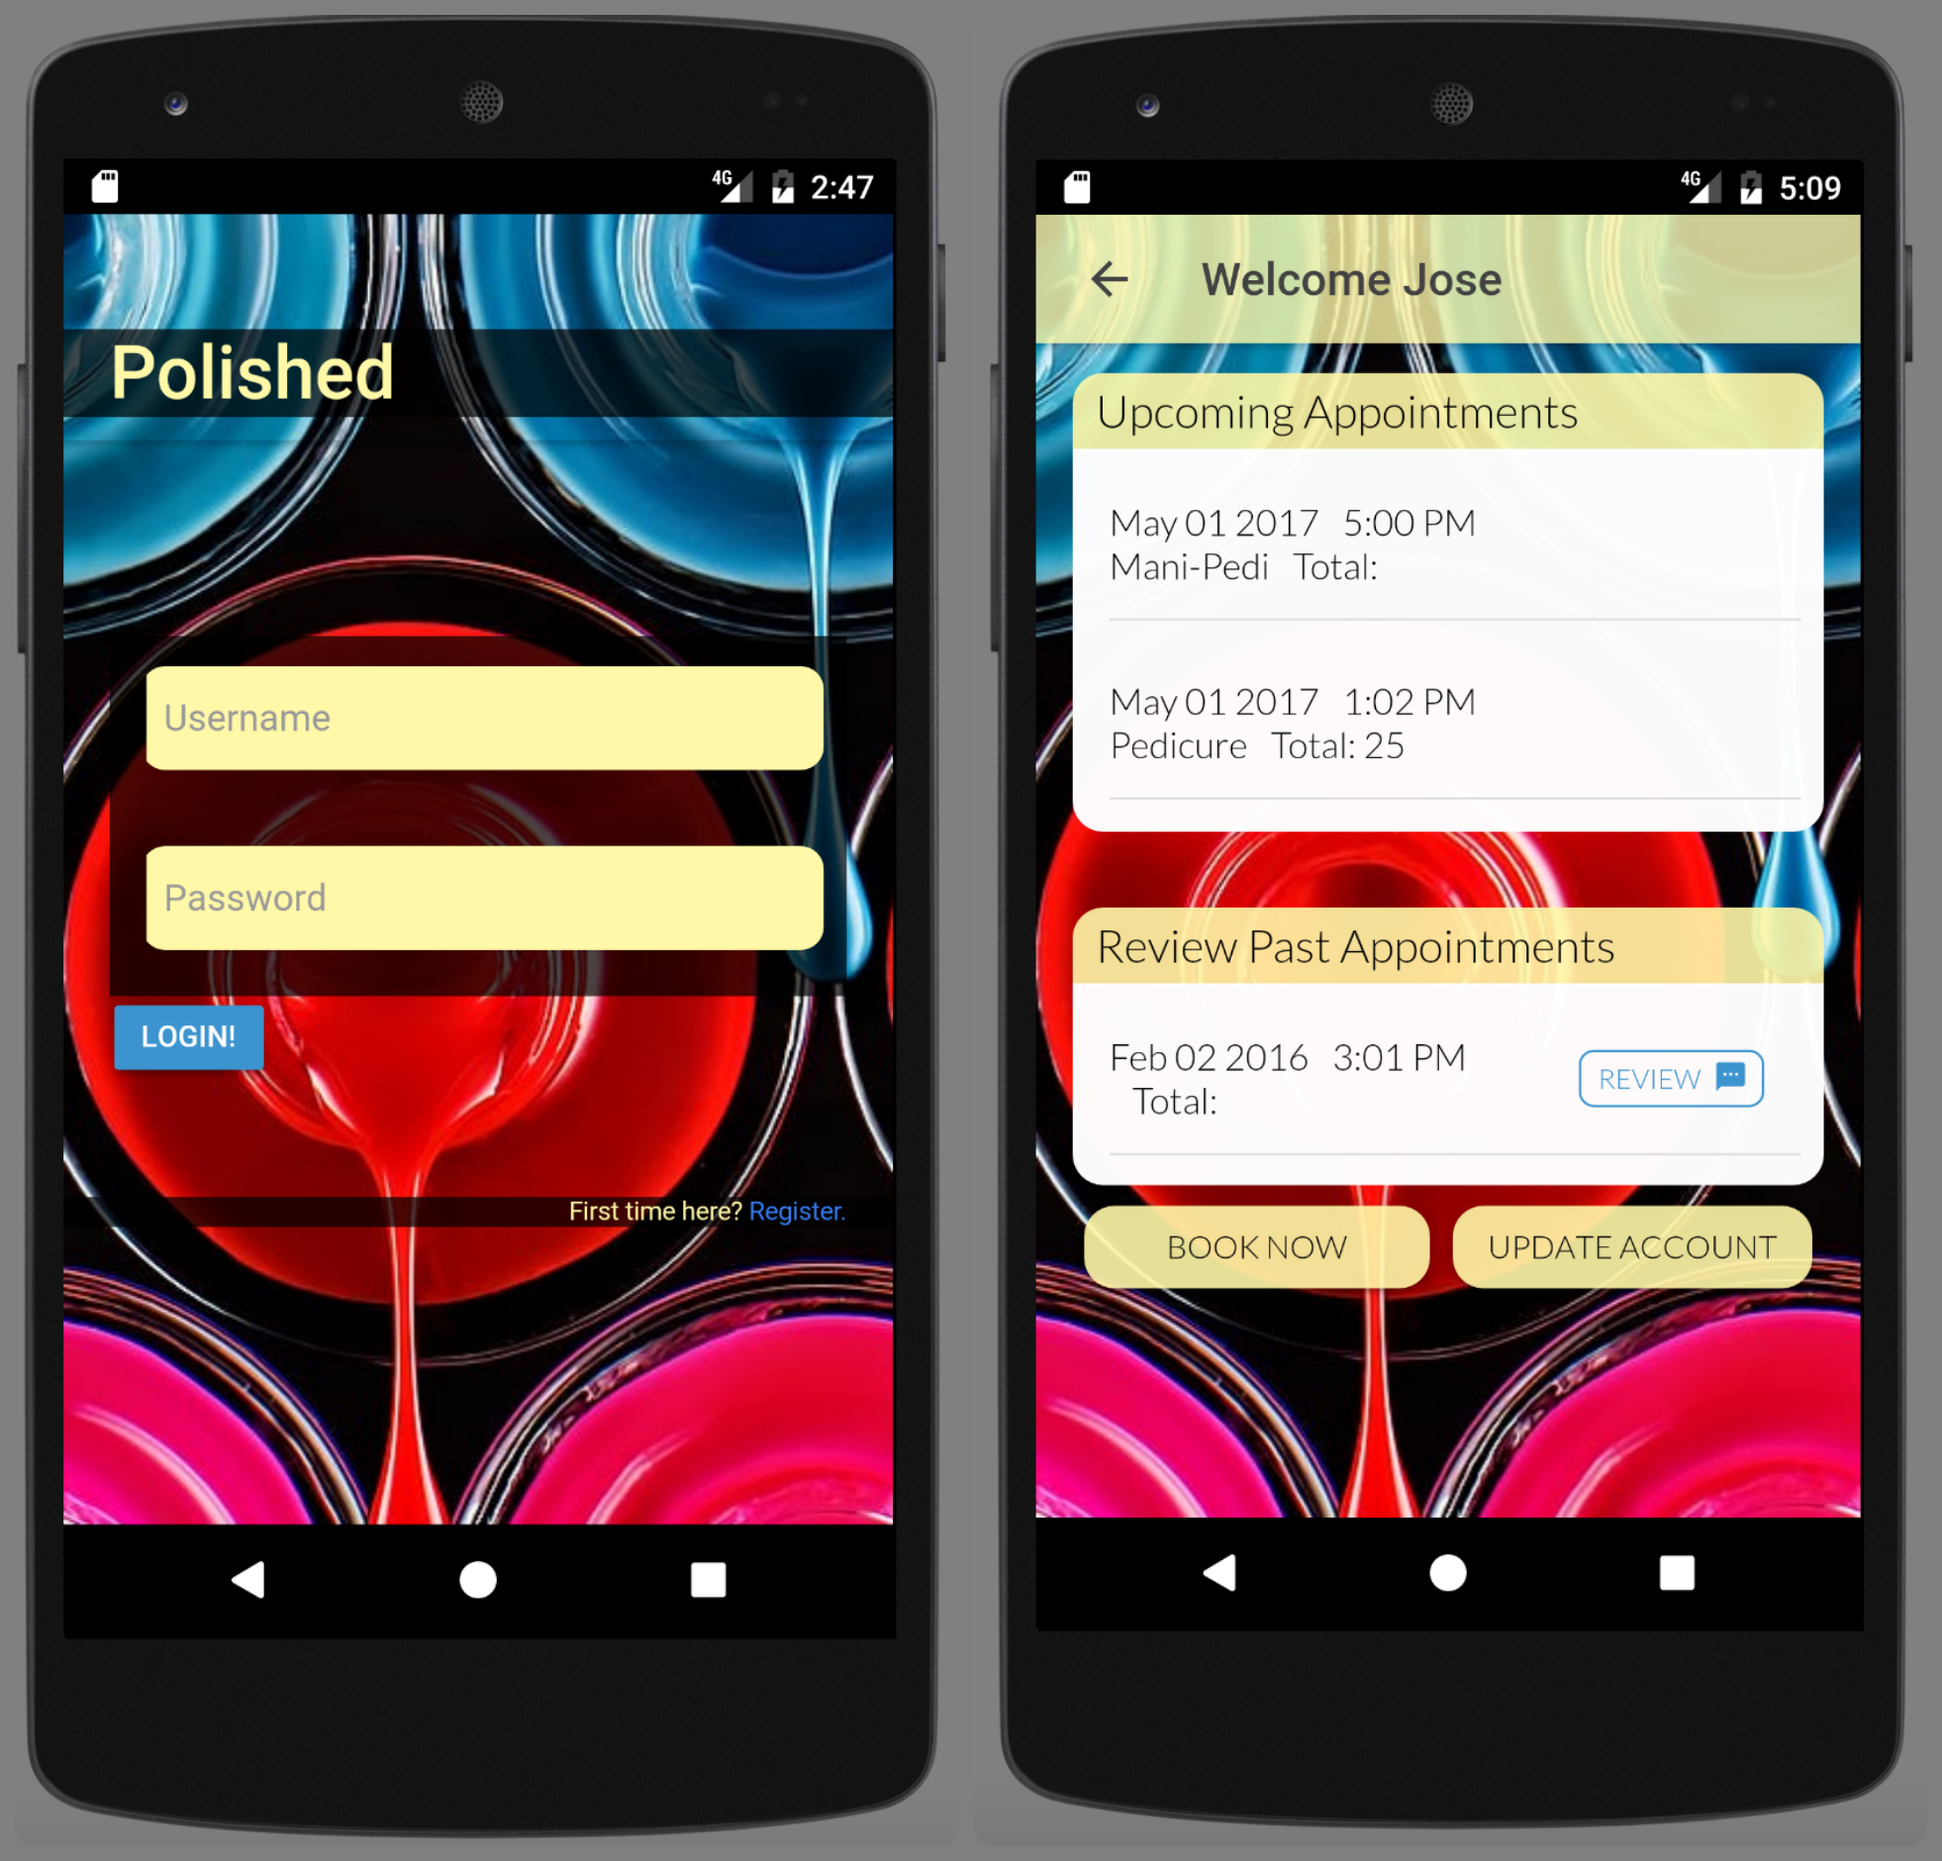
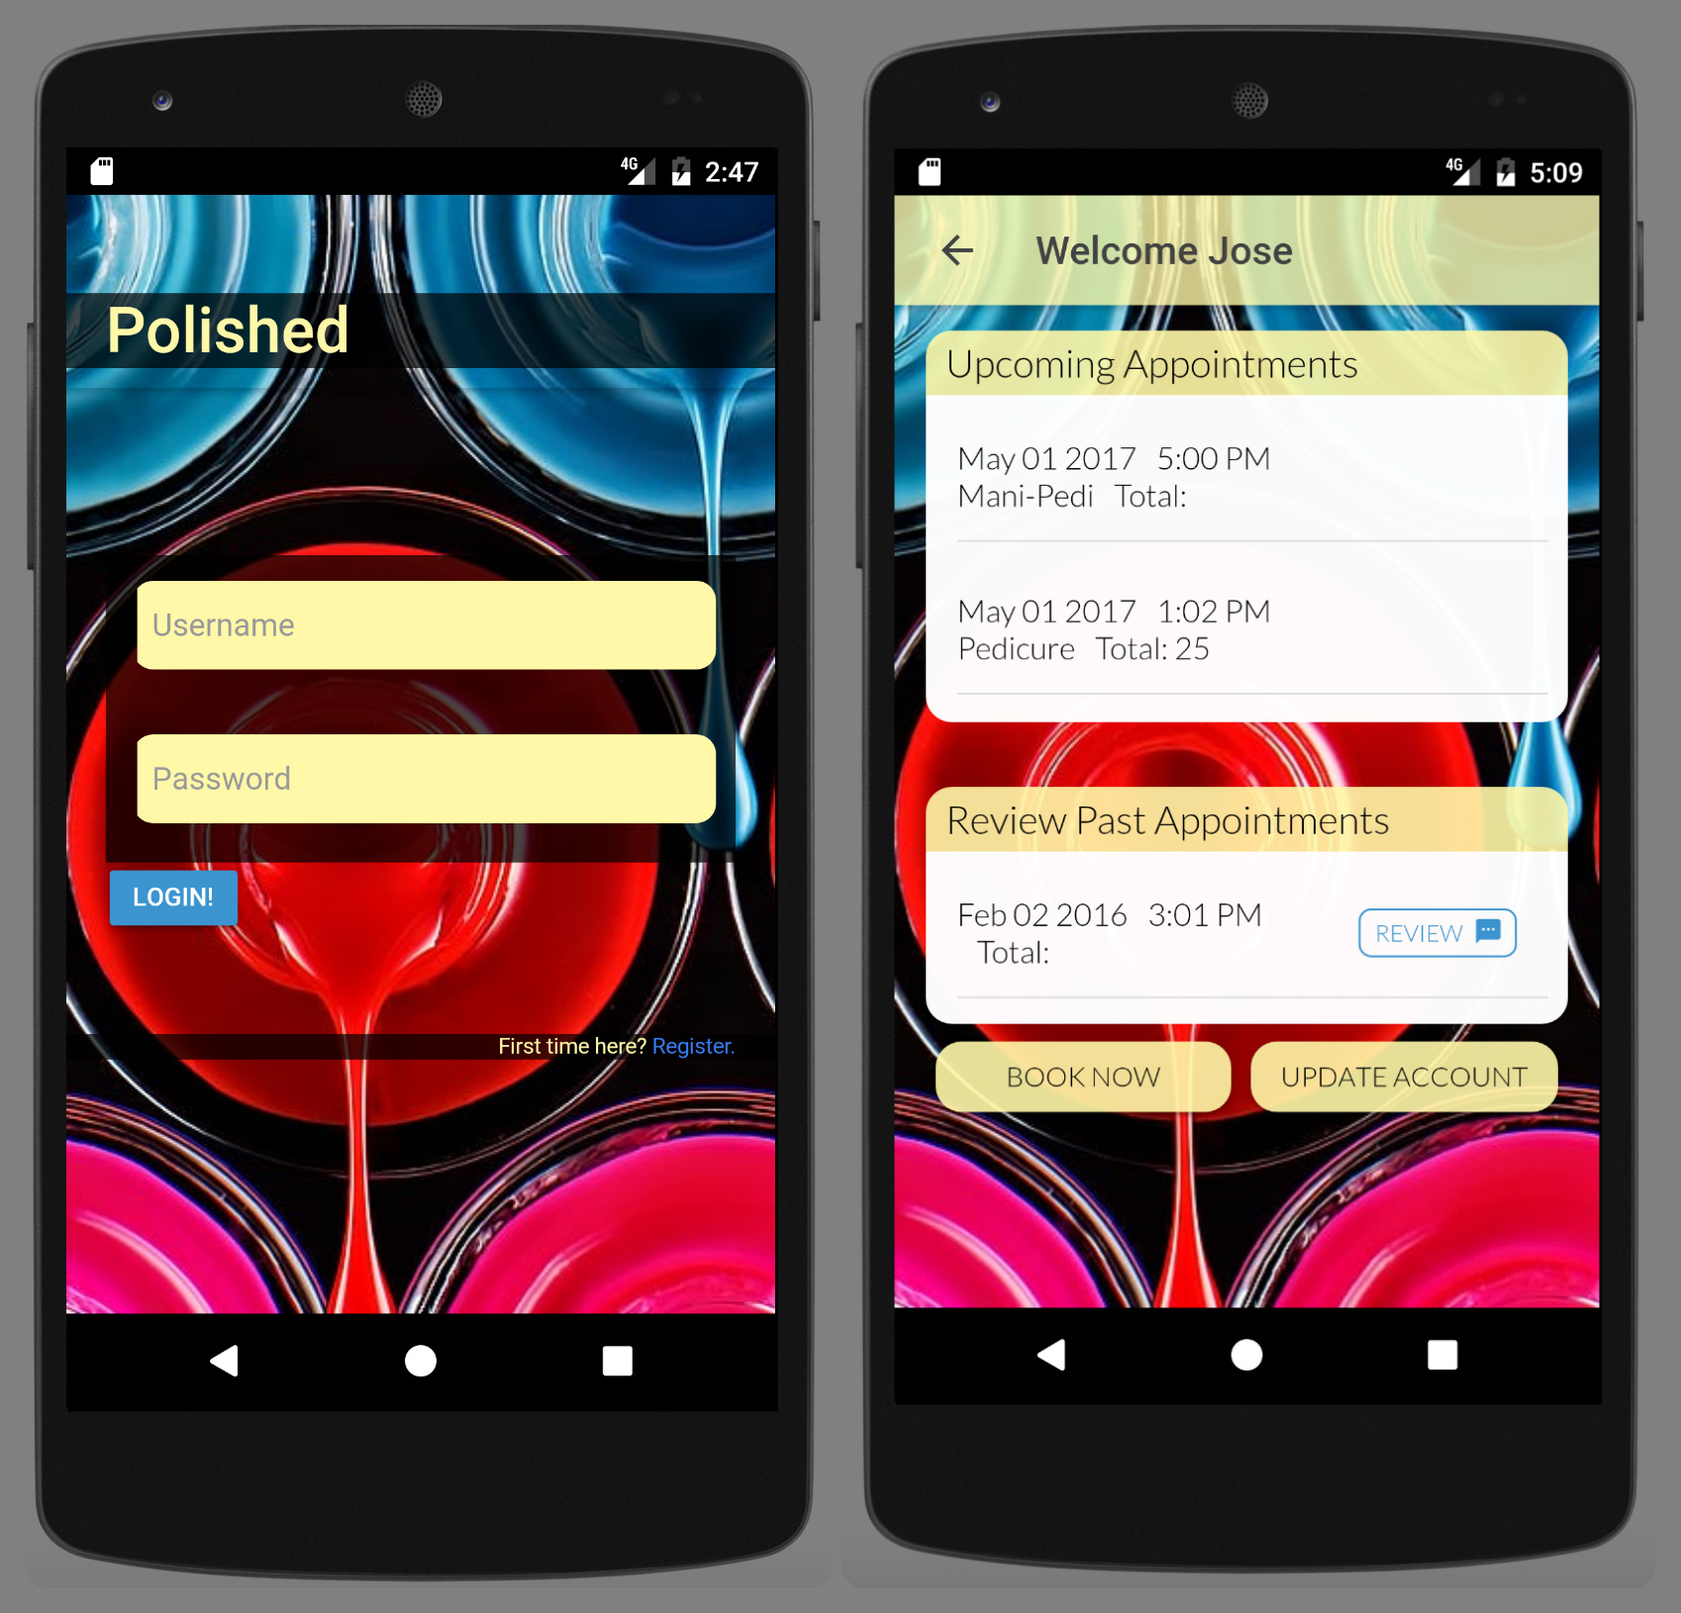
Polished pics restructure

Changed region(s): [[0.0, 0.0, 0.9988, 1.0], [0.5306, 0.9509, 0.9676, 0.9816], [0.2497, 0.4294, 0.2809, 0.4601]]

diff --git a/src/app/applications/applications.component.css b/src/app/applications/applications.component.css
@@ -16,9 +16,9 @@ md-grid-list {
 .expert {
     text-align: center;
     display: flex;
-    font-size: 2.2vw;
+    font-size: 2.5vw;
     padding: 20%;
-    background-color: grey;
+    background-color: white;
     justify-content: center; /* align horizontal */
     align-items: center; /* align vertical */
 }

diff --git a/src/app/polished/polished.component.html b/src/app/polished/polished.component.html
@@ -17,7 +17,7 @@
     </md-grid-tile>
     <md-grid-tile>
       <div class="sectContainer">
-        <img class="rightImg" src="../assets/polishedPics/combine_images_11.jpg" alt="">
+        <img class="rightImg" src="../assets/polishedPics/combine_images_1.jpg" alt="">
       </div>
     </md-grid-tile>
     
